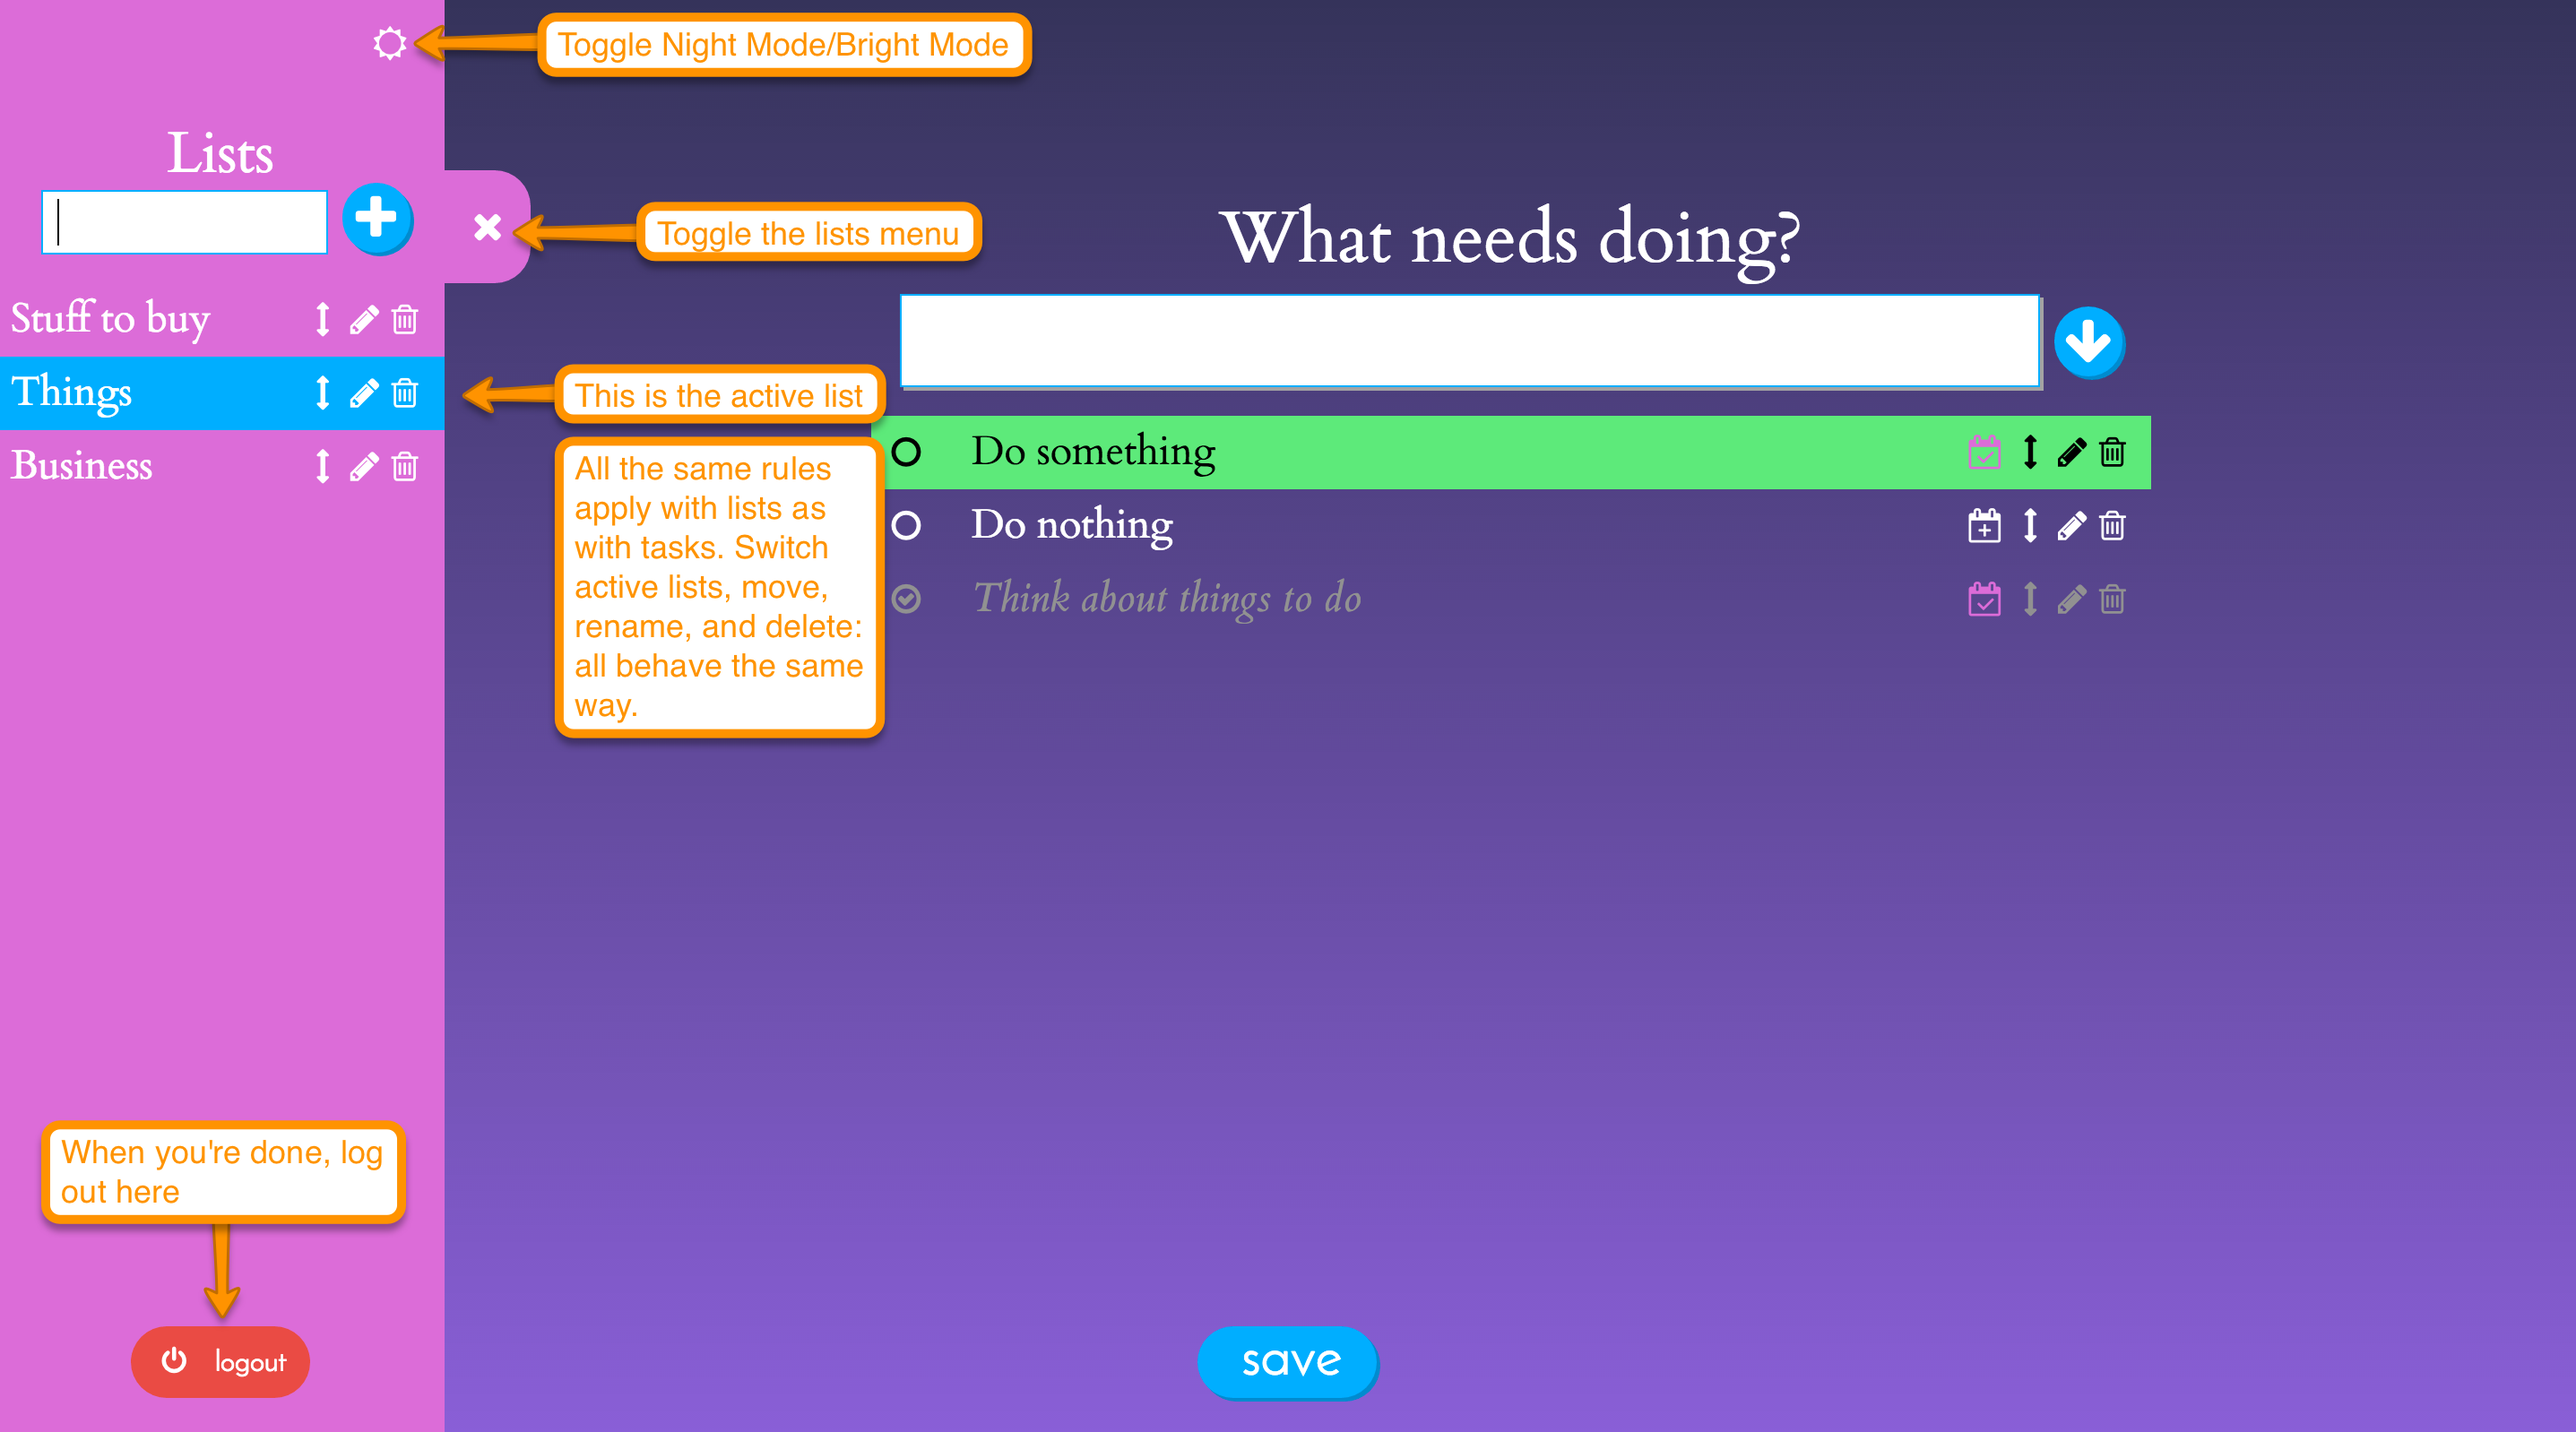
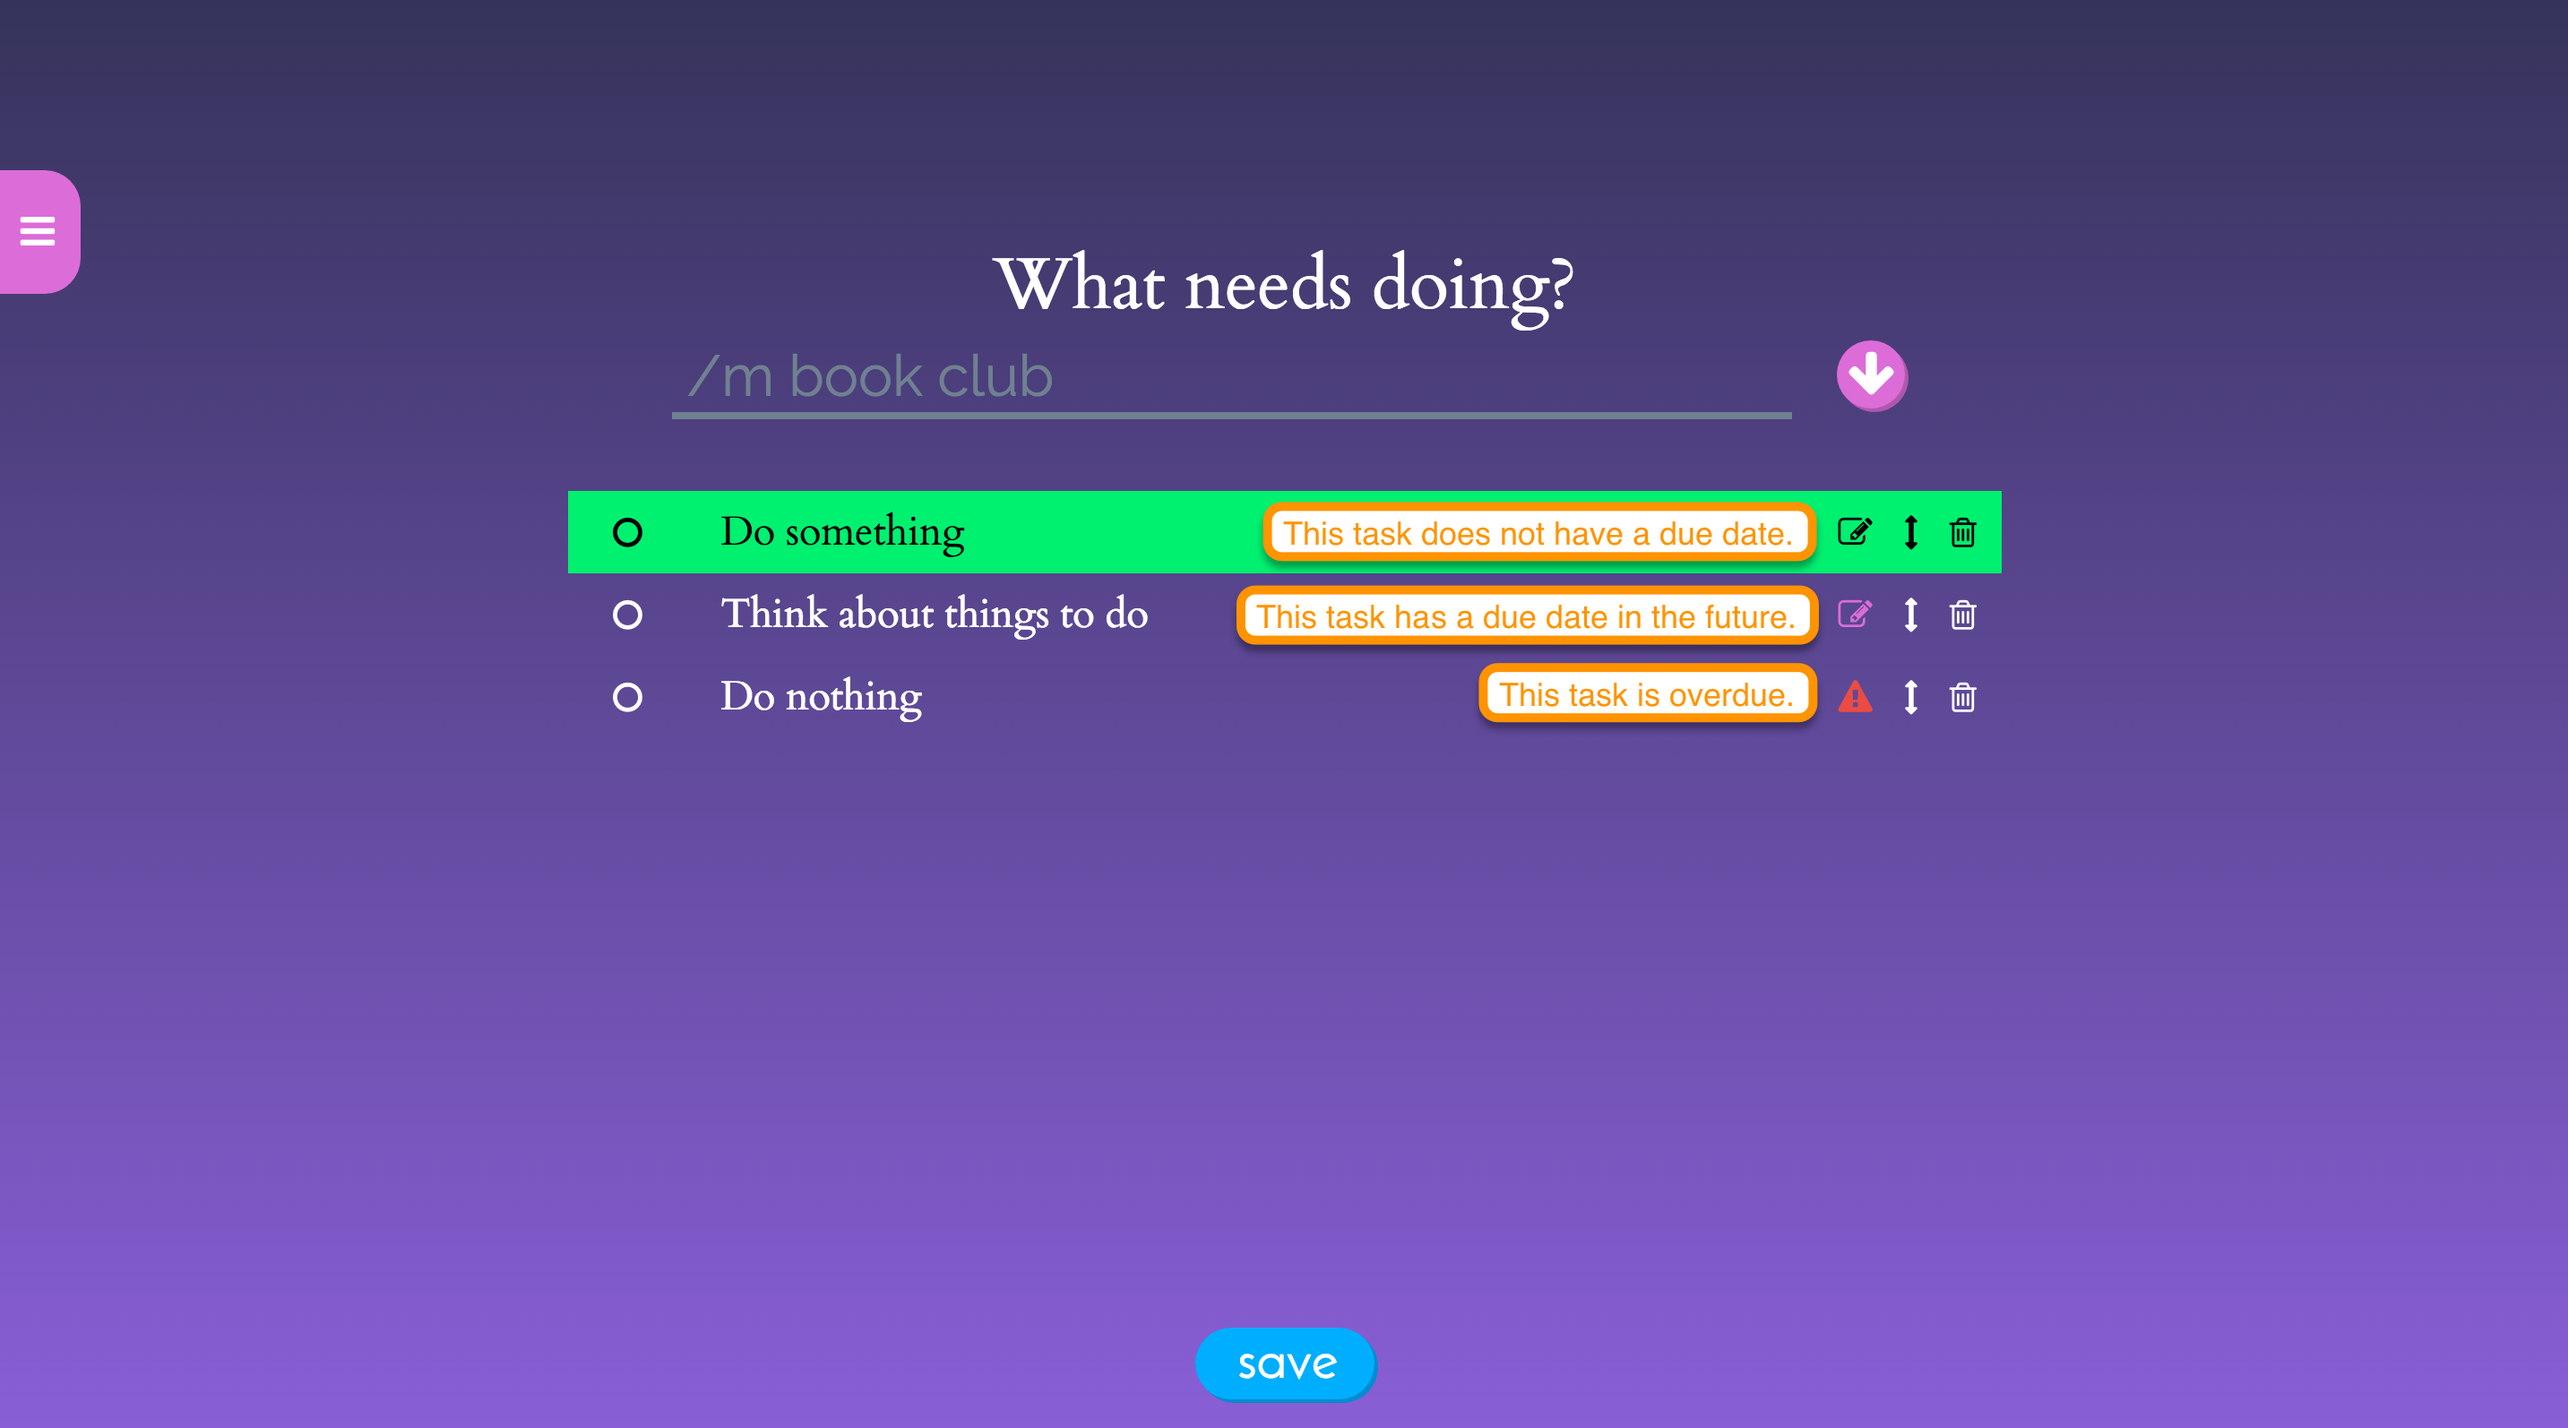
new screenshots, small due date fix

diff --git a/config.js b/config.js
@@ -1,15 +1,13 @@
-var config = {}
-
-config.mongoUri = process.env.MONGOLAB_URI || 'mongodb://localhost:27017/rtr'
-config.agendaOptions = {
-  db: {
-    address: process.env.MONGOLAB_URI || 'mongodb://localhost:27017/rtr',
-    collection: 'agendaJobs'
+module.exports = {
+  mongoUri: process.env.MONGOLAB_URI || 'mongodb://localhost:27017/rtr',
+  agendaOptions: {
+    db: {
+      address: process.env.MONGOLAB_URI || 'mongodb://localhost:27017/rtr',
+      collection: 'agendaJobs'
+    }
+  },
+  cookieMaxAge: 30 * 24 * 3600 * 1000,
+  compression: {
+    level: 9
   }
 }
-config.cookieMaxAge = 30 * 24 * 3600 * 1000
-config.compression = {
-  level: 9
-}
-
-module.exports = config

diff --git a/public/components/tasks/task-components/Datepicker.vue b/public/components/tasks/task-components/Datepicker.vue
@@ -46,8 +46,8 @@ export default {
       if (!this.tasks[index].dueDate) {
         this.picker.setDate('')
         this.setDueDateDifference(this.index, null)
+        this.setSaveButton(true)
       }
-      this.setSaveButton(true)
     }
   },
   compiled () {

diff --git a/README.md b/README.md
@@ -31,6 +31,10 @@ taskmastr is updated regularly with new features
 
 # Changelog
 
+## New in v6.1
+
+Detailed views for tasks, this is now where due dates are set and removed, where tasks are renamed, and, NEW FEATURE, where you can set notes for each task. The calendar and rename toggles in the list have been replaced with a toggle for the detailed view.
+
 ## New in v6.0
 
 The front-end has been completely rewritten in the ground up in [Vue](vuejs.org), from Angular 1.x. With that comes some small changes but mostly everything should be under the hood. 
@@ -68,10 +72,11 @@ This feature really does not and should not work for every single imaginable dat
 
 _One more note about shortcuts:_ If today is Saturday, putting in 'next saturday' will not work, use 'next week' when you mean one week from today. Same goes for 'next month' for one month from today, and 'next year' for... well, you know.
 
-## New in v5.0.0
+## Screenshots
 
 ![taskmastr basic usage](/images/taskmastr-basic-usage-1.png)
-![taskmastr basic usage 2a](/images/taskmastr-basic-usage-2a.png)
+![taskmastr basic usage 2](/images/taskmastr-basic-usage-2.png)
 ![taskmastr basic usage 3](/images/taskmastr-basic-usage-3.png)
 ![taskmastr basic usage 4](/images/taskmastr-basic-usage-4.png)
+![taskmastr basic usage 5](/images/taskmastr-basic-usage-4.png)
 ![taskmastr modal](/images/screenshot3.png)
